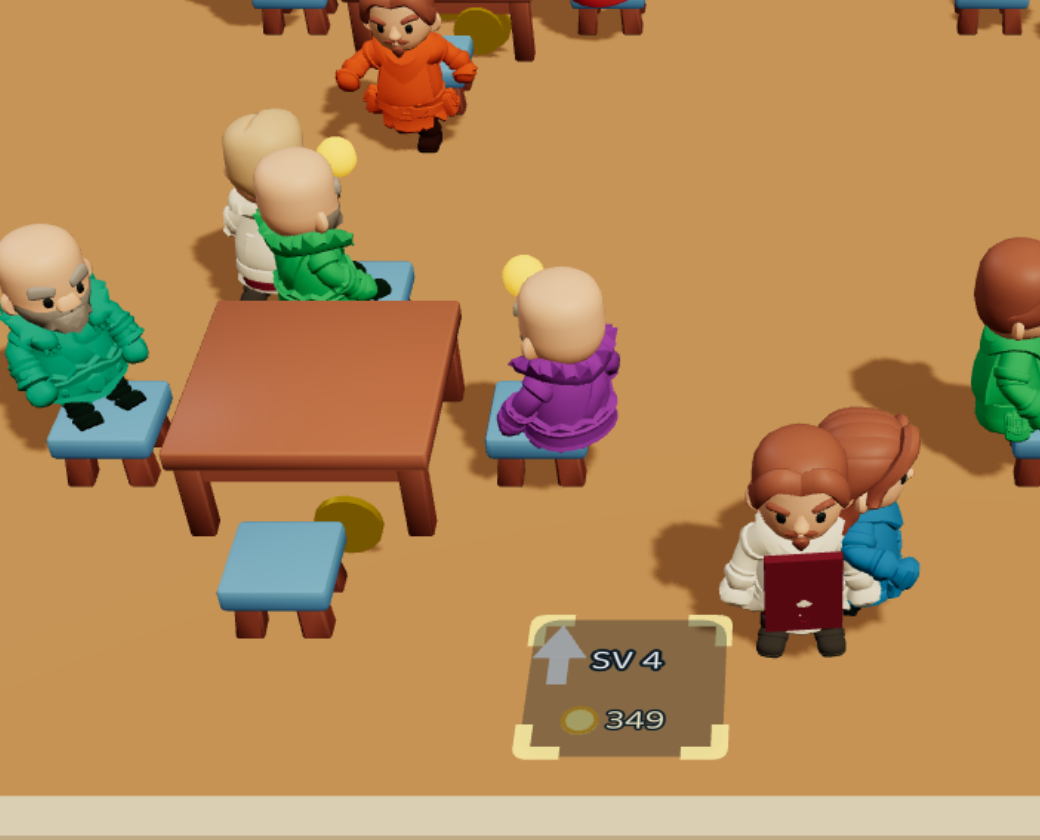
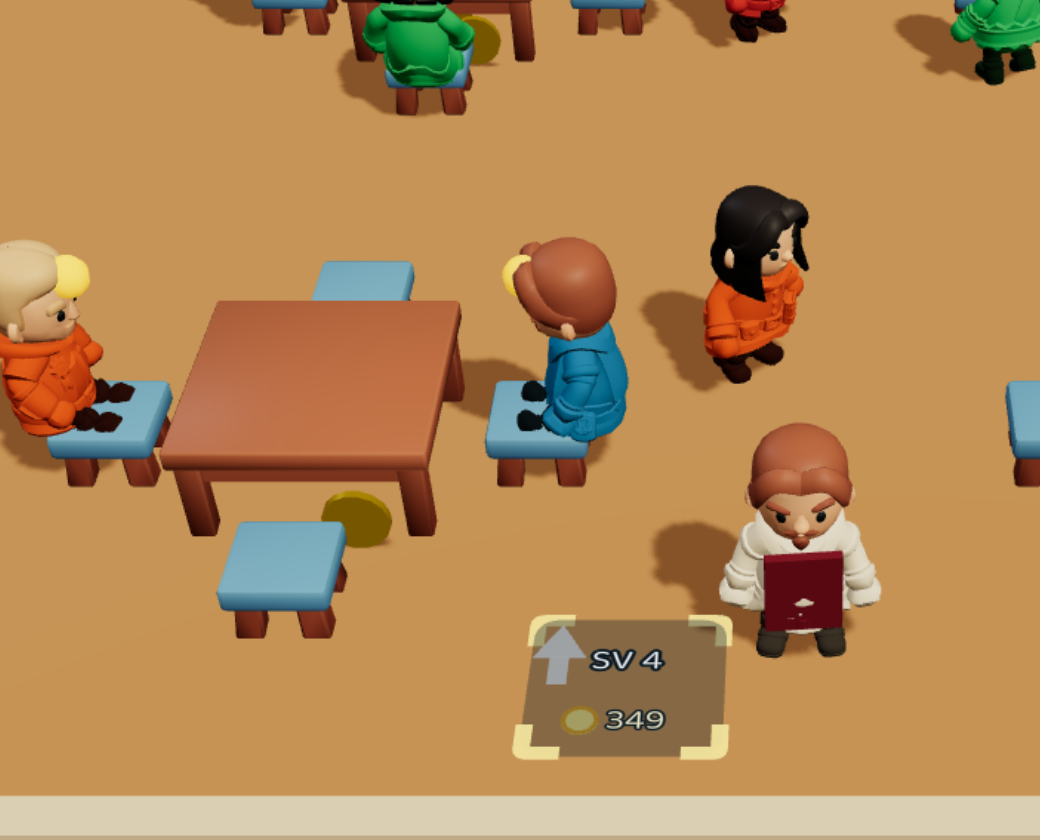
S15 ikinci tur: musteri tavani 80 (kapsul gorunmesin) + oturan musteri masaya doner
Kullanici geri bildirimi:
- "tavani 80'e cikar, kapsul hic gorunmesin" -> NPC_SKIN_CAP 48 -> 80 (1,57 ms / 112 cizim).
  24 masa tam acikken musteri 70'i gecebiliyor; 80 o tepenin ustunde kalir. Kapsul kolu yine
  de silinmedi: tavan bir gun asilirsa musteri sessizce kaybolmasin, kapsule dussun.
- "oturmalar sikinti, masaya donuk degiller" -> yon HAREKETTEN turuyordu; musteri oturunca
  hareket bitiyor ve GELDIGI YONE bakakaliyordu. Koltuk masanin cevresinde herhangi bir yonde
  olabildigi icin sabit aci ise yaramaz: yon artik koltuktan MASA MERKEZINE bakiyor
  (LAYOUT.tables[i].table). Ayrica yuva el degistirince aci SNAP ediyor -- yeni musteri
  oncekinin yonunden donerek gelmiyor.

Bekci 21 -> 23 denetim, 18 -> 21 mutasyon, kacan 0.
tsc -b OK · vitest 966 OK · duman 42/42 OK · sira OK.
Kare: docs/gorsel/ss/s15-oturus-yakin.png (her oturan musteri kendi masasina bakiyor).

Claude-Session: https://claude.ai/code/session_01BXTPBZe7sRxgdmTJE2DwFu

diff --git a/src/components/three/Customers.tsx b/src/components/three/Customers.tsx
@@ -33,7 +33,7 @@ import {
 } from '../../config/actor';
 import { PALETTE } from '../../config/palette';
 import { ekipmanMi, basMi, kafaKucult, useKayKlipler, KLIP, LOKOMOSYON, lokomosyonSec, YURUME_ESIGI } from './KayActor';
-import { WC_GECIS, wcOlcek } from '../../game/layout';
+import { WC_GECIS, wcOlcek, LAYOUT } from '../../game/layout';
 
 /**
  * Customers — müşteri gövdeleri (S15 · D-113: skinned).
@@ -48,13 +48,13 @@ import { WC_GECIS, wcOlcek } from '../../game/layout';
  * müşteriler bu yuvalara oturur; yuva boşalınca bir sonraki müşteri aynı gövdeyi devralır
  * (renk ve klip yeniden yazılır). Müşteri gelip gitmesi mesh kurmaz.
  *
- * TAVANI AŞAN MÜŞTERİ eski instanced kapsülle çizilir — `maxConcurrent` geç oyunda 80'in
- * üstüne çıkabiliyor ve o kadar skinned gövde ölçülen bütçenin üç katı. Kapsül kolu bu yüzden
- * silinmedi; gerekçe ve sayılar `actor.ts` → `NPC_SKIN_CAP`.
+ * TAVAN 80 — kullanıcı "kapsül hiç görünmesin" dedi, yani bütçe oyunun üretebildiği en yüksek
+ * müşteri sayısının üstünde. Kapsül kolu yine de duruyor: tavan bir gün aşılırsa müşteri
+ * kaybolmasın, kapsüle düşsün. Gerekçe ve sayılar `actor.ts` → `NPC_SKIN_CAP`.
  *
  * GÖVDE BAŞINA İKİ MESH: baş dokusunu korur (yüz/saç boyanmaz — D-112), kol+gövde+bacak tek
  * geometriye kaynar ve rengini KÖŞE RENGİNDEN alır. Ölçüldü: 24 müşteri = 48 çizim / 0,52 ms;
- * aynı sayıda 6 parçalı gövde 216 çizim / 1,78 ms.
+ * aynı sayıda 6 parçalı gövde 216 çizim / 1,78 ms. 80 müşteri = 1,57 ms.
  *
  * P0 perf: `npcs` abonelikle DEĞİL `getState()` ile okunur — NPC dizisi her karede yeniden
  * üretiliyor (konum) ve abonelik bu bileşeni her kare render ederdi.
@@ -83,6 +83,8 @@ type Yuva = {
   aci: number;
   sonX: number;
   sonZ: number;
+  /** Yuva yeni el değiştirdi — açı yumuşatılmadan SNAP edilir. */
+  yeniYuva: boolean;
 };
 
 /**
@@ -93,8 +95,8 @@ function useMusteriHavuzu(): { grup: Group; yuvalar: Yuva[]; govdeBoy: number } 
   const dosyalar = useGLTF(KAY_MUSTERI_GOVDE.map((g) => `${KAY_KOK}${g}.glb`));
   const klipler = useKayKlipler();
 
-  // Havuz TAM BİR KEZ kurulur (`useMemo` değil `useRef`): 24 skinned gövde + 48 geometri
-  // kaynağı pahalı bir iştir ve memo bağımlılığının kimliği kaydığı anda baştan koşar —
+  // Havuz TAM BİR KEZ kurulur (`useMemo` değil `useRef`): `NPC_SKIN_CAP` gövde ve iki katı
+  // geometri kaynağı pahalı bir iştir ve memo bağımlılığının kimliği kaydığı anda baştan koşar —
   // ilk denemede birebir bu oldu ve duman testi canvas'ı 15 sn'de göremedi.
   const havuz = useRef<{ grup: Group; yuvalar: Yuva[]; govdeBoy: number } | null>(null);
   if (!havuz.current) {
@@ -168,11 +170,11 @@ function useMusteriHavuzu(): { grup: Group; yuvalar: Yuva[]; govdeBoy: number } 
         if (klip) eylemler[ad] = mixer.clipAction(klip);
       }
       eylemler[KLIP.dur]?.play();
-      mixer.setTime(i * 0.17); // faz kaydır: yirmi dört müşteri aynı karede nefes almasın
+      mixer.setTime(i * 0.17); // faz kaydır: müşteriler aynı karede nefes alıp adım atmasın
 
       yuvalar.push({
         kok, mixer, eylemler, govdeMat,
-        npcId: -1, suAnKlip: KLIP.dur, hedefAci: 0, aci: 0, sonX: 0, sonZ: 0,
+        npcId: -1, suAnKlip: KLIP.dur, hedefAci: 0, aci: 0, sonX: 0, sonZ: 0, yeniYuva: true,
       });
     }
 
@@ -234,17 +236,28 @@ export function Customers() {
           y.govdeMat.color.set(npc.color);
           y.sonX = x;
           y.sonZ = z;
+          y.yeniYuva = true; // açı SNAP etsin: önceki müşterinin yönünden dönerek gelmesin
         }
         const dx = x - y.sonX;
         const dz = z - y.sonZ;
         const hiz = dt > 0 ? Math.sqrt(dx * dx + dz * dz) / dt : 0;
-        if (dx * dx + dz * dz > 1e-5) y.hedefAci = Math.atan2(dx, dz);
+        if (oturan) {
+          // OTURAN MÜŞTERİ MASAYA DÖNER. Yön normalde HAREKETTEN türüyor; oturunca hareket
+          // bitiyor ve müşteri **geldiği yöne** bakakalıyordu (kullanıcı 2026-09-14: "oturmalar
+          // sıkıntı, masaya dönük değiller"). Koltuk masanın çevresinde herhangi bir yönde
+          // olabildiği için sabit bir açı işe yaramaz — yön koltuktan MASA MERKEZİNE bakar.
+          const masa = LAYOUT.tables[npc.tableIndex]?.table;
+          if (masa) y.hedefAci = Math.atan2(masa[0] - x, masa[2] - z);
+        } else if (dx * dx + dz * dz > 1e-5) {
+          y.hedefAci = Math.atan2(dx, dz);
+        }
         y.sonX = x;
         y.sonZ = z;
         let tg = y.hedefAci;
         while (tg - y.aci > Math.PI) tg -= Math.PI * 2;
         while (tg - y.aci < -Math.PI) tg += Math.PI * 2;
-        y.aci = MathUtils.damp(y.aci, tg, 9, dt);
+        y.aci = y.yeniYuva ? y.hedefAci : MathUtils.damp(y.aci, tg, 9, dt);
+        y.yeniYuva = false;
 
         // Oturan müşteri GERÇEK oturuş klibindedir; kök `KAY_OTURMA_KALDIRMA` kadar kalkar ki
         // kalça taburenin oturağına gelsin (ölçüm §Oturus). Eski `SEATED_DROP` bir kapsül

diff --git a/tests/karakter-senkron.test.ts b/tests/karakter-senkron.test.ts
@@ -160,8 +160,11 @@ describe('S15 · sahibin kasketi kalktı (kullanıcı kararı)', () => {
 });
 
 describe('S15 · müşteri skinned (D-113)', () => {
-  it('bütçe oyunda ÖLÇÜLEN eşzamanlı müşteriyi kapsar (12 masada 38 görüldü)', () => {
-    expect(NPC_SKIN_CAP).toBeGreaterThanOrEqual(38);
+  it('bütçe oyunun üretebildiği EN YÜKSEK müşteri sayısını kapsar — kapsül görünmemeli', () => {
+    // `maxConcurrent = max(8, totalSeats + 2)`; 24 masa tam açıkken müşteri 70'i geçebiliyor.
+    // Oyunda ölçüldü: yalnız 12 masada 38 eşzamanlı müşteri. Kullanıcı kararı: kapsül hiç
+    // görünmesin (2026-09-14) → tavan o tepenin üstünde kalmalı.
+    expect(NPC_SKIN_CAP).toBeGreaterThanOrEqual(80);
   });
 
   it('tavanı aşan müşteri için kapsül kolu DURUYOR — silinirse geç oyunda müşteri kaybolur', () => {
@@ -192,5 +195,22 @@ describe('S15 · müşteri skinned (D-113)', () => {
 
   it('gömlek rengi müşteriden gelir — yuva el değiştirince yeniden yazılır', () => {
     expect(KAYNAK_MUSTERI).toMatch(/y\.govdeMat\.color\.set\(npc\.color\)/);
+  });
+
+  it('OTURAN müşteri MASAYA döner — yön hareketten değil masa merkezinden gelir', () => {
+    // Yön normalde hareketten türüyor; oturunca hareket bitiyor ve müşteri geldiği yöne
+    // bakakalıyordu (kullanıcı 2026-09-14: "oturmalar sıkıntı, masaya dönük değiller").
+    expect(KAYNAK_MUSTERI).toMatch(/LAYOUT\.tables\[npc\.tableIndex\]\?\.table/);
+    expect(KAYNAK_MUSTERI).toMatch(/Math\.atan2\(masa\[0\] - x, masa\[2\] - z\)/);
+    // Oturan koluna, hareket kolundan ÖNCE bakılmalı; sonra bakılsa hareket yönü kazanırdı.
+    const oturanDal = KAYNAK_MUSTERI.indexOf('if (oturan) {');
+    const hareketDal = KAYNAK_MUSTERI.indexOf('} else if (dx * dx + dz * dz > 1e-5) {');
+    expect(oturanDal).toBeGreaterThan(-1);
+    expect(oturanDal).toBeLessThan(hareketDal);
+  });
+
+  it('yuva el değiştirince açı SNAP eder — önceki müşterinin yönünden dönmez', () => {
+    expect(KAYNAK_MUSTERI).toMatch(/y\.yeniYuva = true;/);
+    expect(KAYNAK_MUSTERI).toMatch(/y\.aci = y\.yeniYuva \? y\.hedefAci : MathUtils\.damp/);
   });
 });

diff --git a/src/config/actor.ts b/src/config/actor.ts
@@ -237,14 +237,16 @@ export const KAY_OTURMA_KALDIRMA = 0.068;
  *   |      48 |    1,00 |    96 |
  *   |      80 |    1,57 |   112 |   (frustum culling devrede)
  *
- * 48 ölçülen oyun durumunu (38) paylı kapsar. TAVANI AŞAN müşteri yine ESKİ instanced kapsülle
- * çizilir — kapsül kolu bu yüzden silinmedi. AÇIK KALEM: 24 masa tam açıkken müşteri 70'i
- * geçebilir ve o durumda kapsüller yine görünür; tavanı 80'e çıkarmak mı yoksa uzaktakini
- * kapsüle düşürmek mi (LOD) — kullanıcıya sorulacak, ölçüldü ama seçilmedi.
+ * TAVAN 80 (kullanıcı kararı, 2026-09-14): **kapsül hiç görünmesin.** `maxConcurrent` geç oyunda
+ * `totalSeats + 2`ye çıkıyor ve 24 masa tam açıkken müşteri 70'i geçebiliyor; 48'lik tavanda o
+ * durumda kapsüller yine belirirdi. 80, oyunun üretebildiği en yüksek sayının üstünde kalır.
+ *
+ * Kapsül kolu yine de SİLİNMEDİ: tavan bir gün aşılırsa müşteri kaybolmasın, kapsüle düşsün.
+ * Sessizce yok olmak, çirkin çizilmekten kötüdür.
  *
  * MOBİLDE ÖLÇÜLMEDİ: bunlar masaüstü sayısıdır, telefonda tipik 4-6 katı. APK turu ister.
  */
-export const NPC_SKIN_CAP = 48;
+export const NPC_SKIN_CAP = 80;
 
 /** Müşteri gövdeleri. Kapüşonlu Rogue bilerek YOK: kapüşonu ekipman süzgecine takılmıyor (S14). */
 export const KAY_MUSTERI_GOVDE = ['Knight', 'Rogue', 'Mage', 'Barbarian', 'Ranger'] as const;

diff --git a/docs/karakter-raporu-s15.md b/docs/karakter-raporu-s15.md
@@ -163,9 +163,9 @@ eşzamanlı müşteri** vardı ve tavanı aşanlar kapsül olarak duruyordu — 
 kapsüller yan yana (`docs/gorsel/ss/s15-oyun-genis.png` ilk sürümü). Tavan **48**'e çekildi;
 ölçülen durumu paylı kapsıyor ve yeni karede kapsül kalmadı.
 
-**AÇIK KALEM:** 24 masa tam açıkken müşteri 70'i geçebilir ve kapsüller yine görünür. İki kol
-ölçüldü ama SEÇİLMEDİ — tavanı 80'e çıkarmak (1,57 ms) ya da uzaktakini kapsüle düşürmek (LOD).
-Soru turu dolduğu için sonraki oturuma yazıldı.
+İkinci tur (kullanıcı, aynı gün): **tavan 80** — *"kapsül hiç görünmesin"*. 24 masa tam açıkken
+müşteri 70'i geçebiliyor; 80 o tepenin üstünde kalır. Bedeli **1,57 ms / 112 çizim**. Kapsül kolu
+silinmedi: tavan bir gün aşılırsa müşteri sessizce kaybolmasın, kapsüle düşsün.
 
 ### Oturuş çapası — `SEATED_DROP`un skinned karşılığı
 
@@ -228,7 +228,7 @@ Dört kolda da önerilen kol seçildi.
 
 ## §Bekçi
 
-`tests/karakter-senkron.test.ts` — **21 denetim**, `tools/mutasyon-s15.mjs` ile **18 mutasyonla**
+`tests/karakter-senkron.test.ts` — **23 denetim**, `tools/mutasyon-s15.mjs` ile **21 mutasyonla**
 doğrulandı, **kaçan 0**.
 
 Yakaladığı mutasyonlar: klip hızının elle ayarlanması · koşu hızının bozulması · kelepçe tavanının
@@ -237,16 +237,27 @@ etmesi · sahibin kasketinin geri gelmesi · önlüğün düşmesi · bütçenin
 oturuş kaldırmasının kapsül numarasına dönmesi · koşu klibinin aday listesinden çıkması ·
 `head` ölçek izinin sökülmemesi · kafanın kıyafetten SONRA küçültülmesi · katsayının yalnız klip
 değişince yazılması · müşteri havuzunun her render kurulması · gömlek renginin müşteriden
-alınmaması · başın gövde materyaliyle boyanması · oturan müşteriye kapsül numarasının uygulanması.
+alınmaması · başın gövde materyaliyle boyanması · oturan müşteriye kapsül numarasının uygulanması · **oturan müşterinin masaya dönmemesi** ·
+**oturuş yönünün hareket yönüne yenilmesi** · **yuva devrinde açının snap etmemesi**.
 
-**Final tam koşu:** `tsc -b` ✓ · vitest **964 ✓** (40 dosya) · `npm run duman` **42/42 ✓** ·
+**Final tam koşu:** `tsc -b` ✓ · vitest **966 ✓** (40 dosya) · `npm run duman` **42/42 ✓** ·
 `npm run sira` ✓ · oyun içi kare `docs/gorsel/ss/s15-oyun-genis.png` (38 müşteri, kapsül yok).
+
+## §İkinci tur (kullanıcı geri bildirimi, aynı gün)
+
+1. **Tavan 80** — *"kapsül hiç görünmesin"*. `NPC_SKIN_CAP` 48 → 80 (1,57 ms / 112 çizim).
+2. **Oturan müşteri masaya dönmüyordu** — *"oturmalar sıkıntı, masaya dönük değiller"*. Yön
+   HAREKETTEN türüyordu; müşteri oturunca hareket bitiyor ve **geldiği yöne bakakalıyordu**.
+   Koltuk masanın çevresinde herhangi bir yönde olabildiği için sabit açı işe yaramaz: yön artık
+   koltuktan **masa merkezine** bakar (`LAYOUT.tables[i].table`). Ayrıca yuva el değiştirince açı
+   SNAP ediyor — yeni müşteri önceki müşterinin yönünden dönerek gelmiyor.
+   Kare: `docs/gorsel/ss/s15-oturus-yakin.png`.
 
 ## §Açık kalemler (bu turdan devreden)
 
-- **Geç oyunda tavan yine aşılabilir.** 24 masa tam açıkken müşteri 70'i geçebilir; iki kol
-  ölçüldü ama seçilmedi (tavan 80 → 1,57 ms · uzaktakini kapsüle düşüren LOD). Soru turu dolduğu
-  için sonraki oturuma bırakıldı.
+- ~~Geç oyunda tavan yine aşılabilir.~~ **KAPANDI (kullanıcı, aynı gün):** tavan **80** —
+  "kapsül hiç görünmesin". Bedeli 1,57 ms/kare. Kapsül kolu yine de silinmedi: tavan bir gün
+  aşılırsa müşteri kaybolmasın, kapsüle düşsün.
 - **Oyuncuda 2,0× artık kayma.** Sıfırlamanın tek yolu oyuncu hızını düşürmek — DENGE, varyant
   kapısına tabi, ölçülmedi.
 - **Rogue'un omzu 0,709** — blob sınırı 0,60'ı bugün de aşıyor (S14'ün 0,58'i başka gövdeden).

diff --git a/memory-bank/activeContext.md b/memory-bank/activeContext.md
@@ -22,27 +22,22 @@ SAYILAR         : docs/karakter-raporu-s15.md · ham docs/olcum-yuruyus.json · 
                   Oturus  Sit_Chair_Idle kalca dunyada 0,382 → kok kaldirma +0,068
 KARAR           : D-113 — K-B telafisiz ×0,75 · S3 (klip hizdan secilir + tavan 1,80) ·
                   Ö1 (ACTOR_HEIGHT 1,75 KALIR) · Ç2 birlesik skinned · kasket yalniz sahipten.
+                  IKINCI TUR: tavan 80 ("kapsul hic gorunmesin") + oturan musteri MASAYA doner.
                   Paket: https://claude.ai/code/artifact/1cad1b62-df57-4ffb-b00b-32f0b9be9565
 UYGULAMA        : actor.ts (KAY_KAFA_OLCEK · KLIP_HIZI · TIMESCALE_TAVAN/TABAN ·
-                  KAY_OTURMA_KALDIRMA · NPC_SKIN_CAP 48 · KAY_MUSTERI_GOVDE · owner.kasket=false)
+                  KAY_OTURMA_KALDIRMA · NPC_SKIN_CAP 80 · KAY_MUSTERI_GOVDE · owner.kasket=false)
                   KayActor.tsx (kafaKucult · head.scale izi sokuldu · lokomosyonSec) ·
                   Customers.tsx (48 yuvali skinned havuz, govde basina iki mesh) ·
                   tools/olcum-yuruyus.mjs · skin-perf sevk kolu · karakter-bak kafa kolu ·
                   tools/shot-s15.mjs · tools/mutasyon-s15.mjs
-BEKÇİ           : tests/karakter-senkron.test.ts — 21 denetim, **18 mutasyonla** dogrulandi,
-                  kacan 0 · tsc -b ✓ · vitest 964 ✓ · duman 42/42 ✓ · sira ✓
+BEKÇİ           : tests/karakter-senkron.test.ts — 23 denetim, **21 mutasyonla** dogrulandi,
+                  kacan 0 · tsc -b ✓ · vitest 966 ✓ · duman 42/42 ✓ · sira ✓
 ```
 
 ## SIRADAKİ TAM ADIM
 
 **S16 — Faz S'in son kalemi: S9 ses** (kaynak karari yazili, D-106 · S-C). Ardindan **Faz H**
 (H1 uc hata · H2 yukseltme sirasi · H3 masa araligi — son ikisi DENGE, varyant kapisina tabi).
-
-**İLK SORULACAK (S15'ten kaldi, soru turu doldugu icin sorulmadi):**
-**Gec oyunda musteri tavani.** 24 masa tam acikken musteri 70'i gecebilir ve tavani asanlar
-kapsul olarak gorunur. Iki kol OLCULDU ama secilmedi:
-- tavani 80'e cikar → 1,57 ms / 112 cizim (frustum culling devrede)
-- uzaktakini kapsule dusur (LOD) → yakindaki 48 skinned, uzak kapsul; kare basi siralama ister
 
 ### S15'ten DEVREDEN (ölçüldü/görüldü, bilerek yapılmadı)
 

diff --git a/memory-bank/progress.md b/memory-bank/progress.md
@@ -450,9 +450,10 @@ PARALEL döndü. Yani kapı geçildi, fakat ~95 dk tahmini bu turla ne doğrulan
   **telafisiz** kolla ×0,75'e indi — gövde ölçeği kıpırdamadı (omuz 0,552 sabit), siluet ~1,52,
   `ACTOR_HEIGHT` ve türeyenleri dokunulmadı. Sahibin kasketi kalktı. Müşteriler **48 yuvalı
   skinned havuza** geçti (gövde başına iki mesh: 48 çizim / 0,52 ms; oyunda ölçülen 38 eşzamanlı
-  müşteriyi paylı kapsar). Bekçi `tests/karakter-senkron.test.ts` 21 denetim, **18 mutasyon,
-  kaçan 0**. Devreden: geç oyunda tavan yine aşılabilir (LOD ↔ tavan 80 ölçüldü, seçilmedi) ·
-  oyuncuda 2,0× artık kayma (hız düşürmek DENGE, ölçülmedi) · Rogue'un omzu 0,709.
+  müşteriyi paylı kapsar). **İkinci turda kullanıcı isteğiyle tavan 80** ("kapsül hiç görünmesin",
+  1,57 ms) ve **oturan müşteri masaya döndürüldü** (yön hareketten türüyordu, oturunca geldiği
+  yöne bakakalıyordu). Bekçi `tests/karakter-senkron.test.ts` 23 denetim, **21 mutasyon, kaçan 0**.
+  Devreden: oyuncuda 2,0× artık kayma (hız düşürmek DENGE, ölçülmedi) · Rogue'un omzu 0,709.
 
 **Faz S kapısı:** 185 kullanılmayan KayKit modeli oyuna bağlı + UI dili maketle onaylanmış +
 ses kaynağı kararı yazılı. Ondan sonra Faz F'e (paketleme) geçilir.
